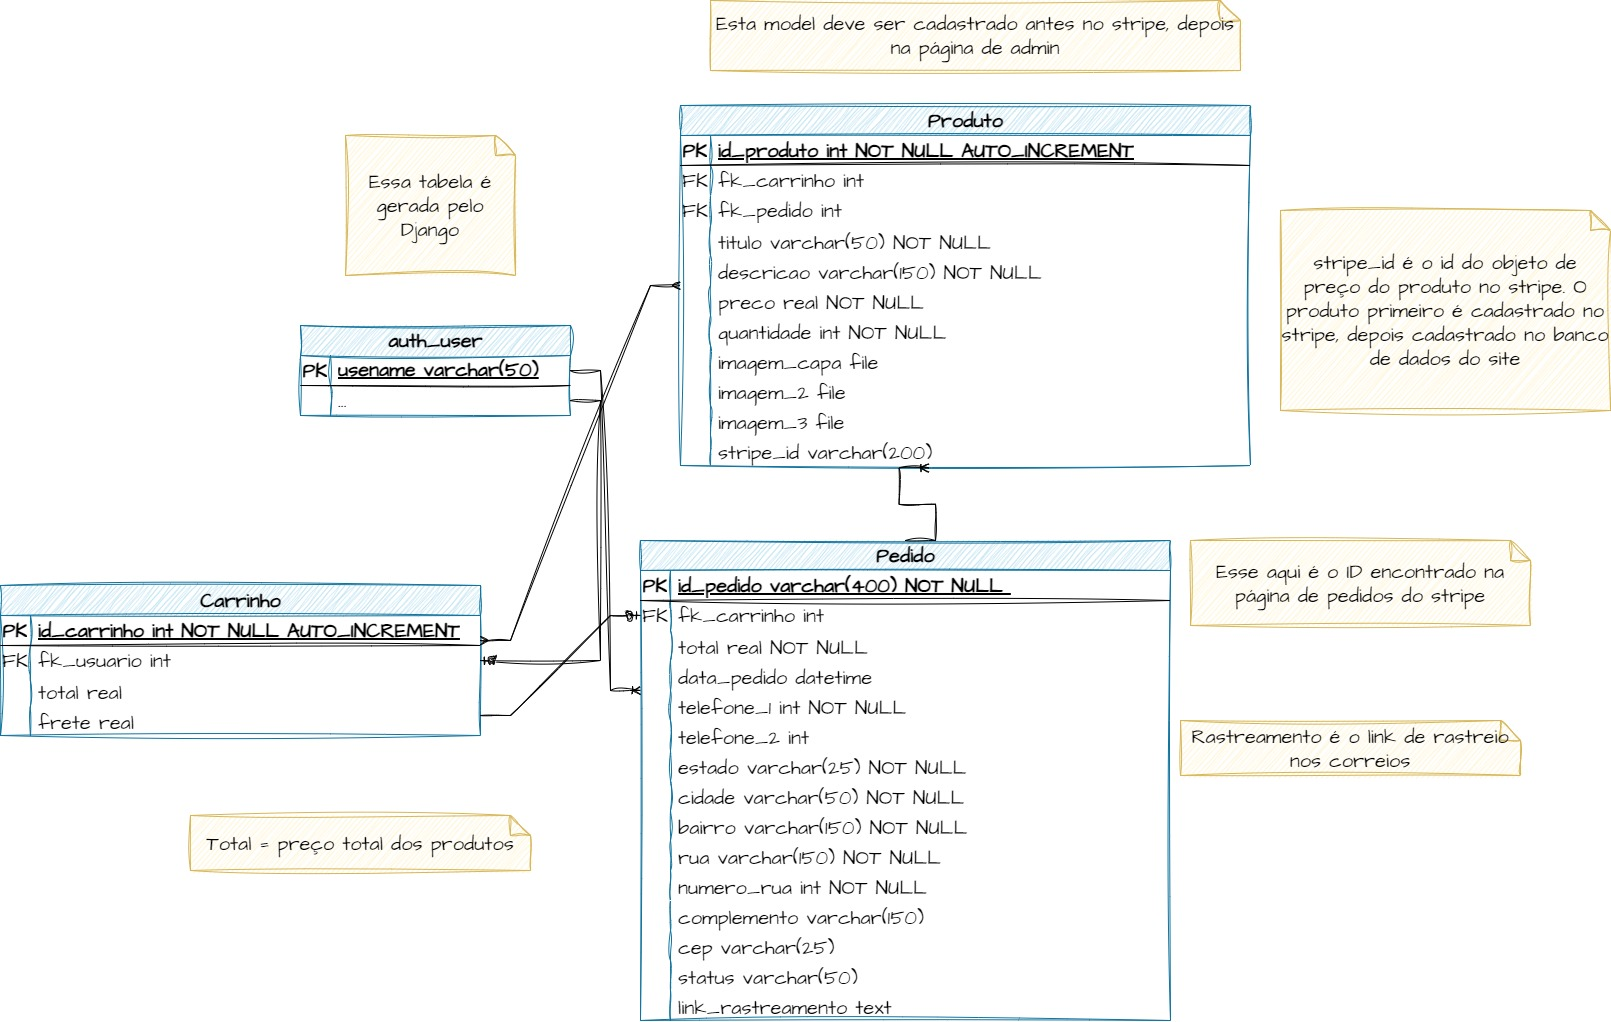
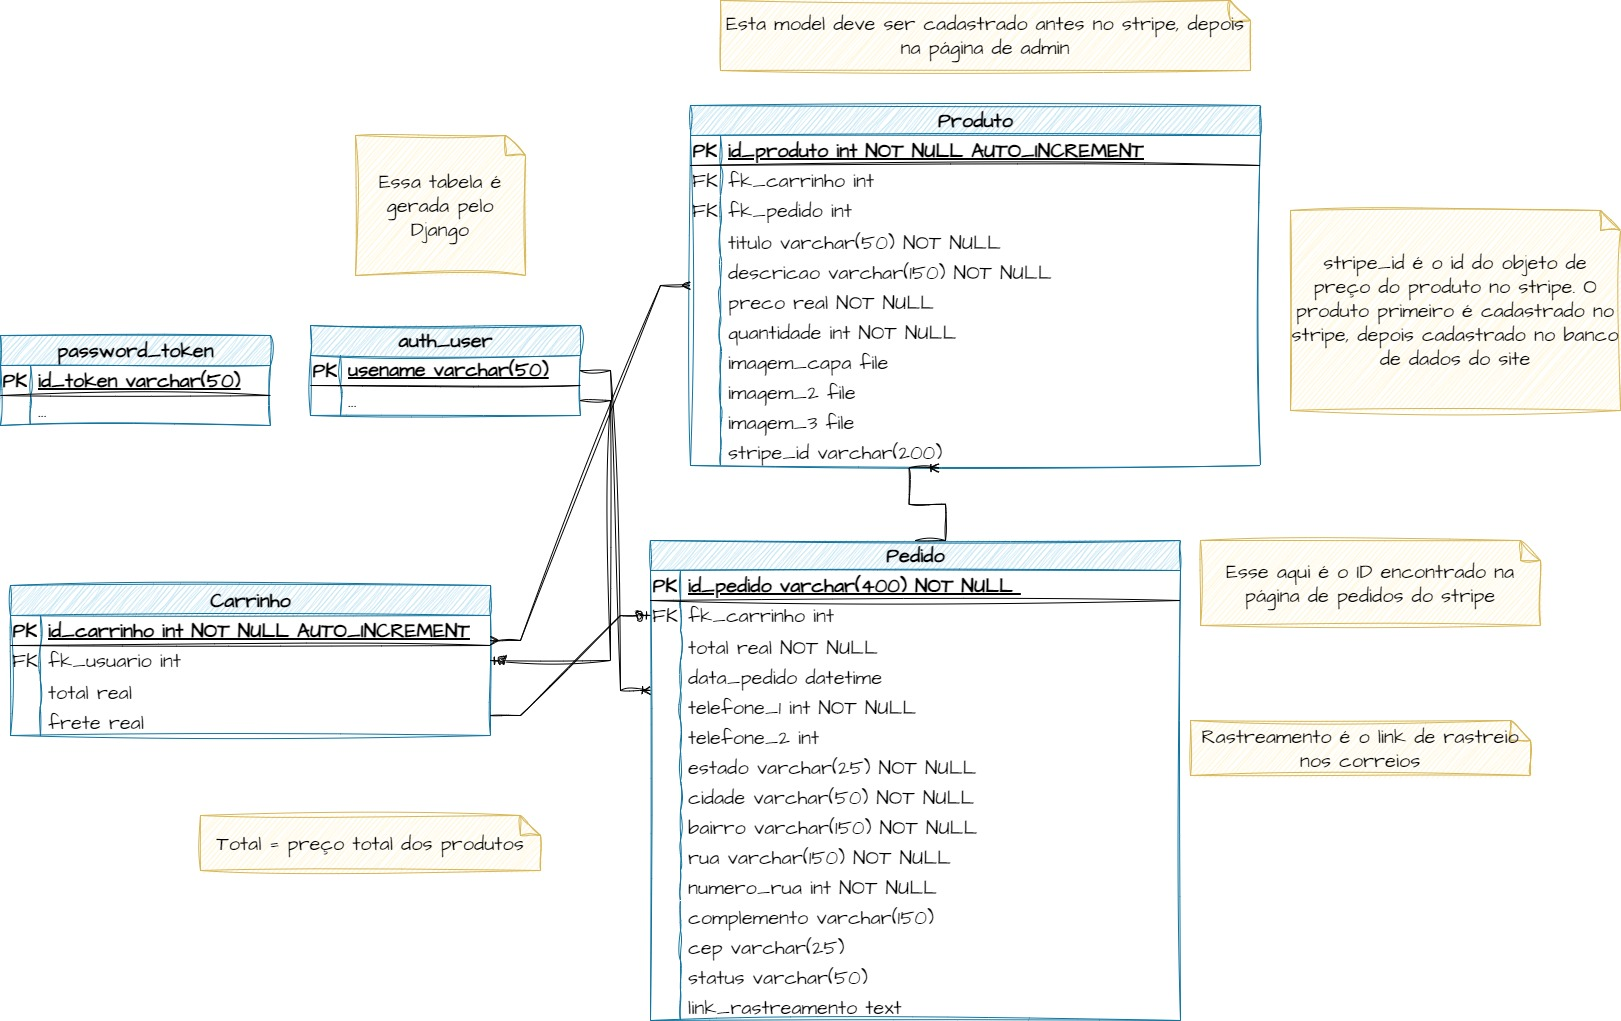
Implementando esqueci minha senha

diff --git a/lojarelogios/lojarelogiosapp/templates/lojarelogiosapp/user/register.html b/lojarelogios/lojarelogiosapp/templates/lojarelogiosapp/user/register.html
@@ -53,7 +53,7 @@
                         id="confirma-senha" aria-describedby="confirma-senha">
                 </div>
                 <span id="erro-msg-span" class="text-danger text-center"></span>
-                <button type="button" id="sbtn" class="my-5 btn-style1 d-grid mx-auto">Registrar-se</button>
+                <button disabled type="button" id="sbtn" class="my-5 btn-style1 d-grid mx-auto">Registrar-se</button>
             </div>
         </div>
     </form>
@@ -95,8 +95,8 @@
 
     function checkDouble(event) {
         if (testeCondicional()) {
-            // Gambiarra para prevenir o submit em caso de erro
             document.getElementById('register-form').submit()
+            sBtn.disabled = false
         } else {
             document.getElementById('erro-msg-span').innerHTML = erro_msg
         }

diff --git a/lojarelogios/lojarelogiosapp/templates/lojarelogiosapp/user/recover-pass.html b/lojarelogios/lojarelogiosapp/templates/lojarelogiosapp/user/recover-pass.html
@@ -1,0 +1,18 @@
+{% extends 'base.html' %}
+<title>{% block title %}Loja de Relógios - Esqueci minha senha{% endblock title %}</title>
+{% block content %}
+<br class="my-5" />
+<br class="my-5" />
+<br class="my-5" />
+<br class="my-5" />
+<br class="my-5" />
+<br class="my-5" />
+<br class="my-5" />
+<br class="my-5" />
+<br class="my-5" />
+<div class="text-center my-5">
+    <h1 class="text-success">Um email foi enviado para {{ user_mail }}</h1>
+    <h2>Favor verificar!</h2>
+</div>
+{% endblock content %}
+{% include 'navbar.html' %}

diff --git a/lojarelogios/lojarelogiosapp/views.py b/lojarelogios/lojarelogiosapp/views.py
@@ -15,6 +15,7 @@ from django.conf import settings
 from django.http import JsonResponse
 from django.core.mail import send_mail
 from django.template import loader
+from uuid import uuid4
 
 # Create your views here.
 def check_available(request, produtos):
@@ -361,3 +362,15 @@ def cancel_view(request):
      #pedido.delete()
      
      return render(request, 'lojarelogiosapp/payment/cancel.html')
+
+# Método que envia email para troca de senha
+def recover_password(request):
+     user = request.user
+     # Vou intanciar um token novo que vai ser um slug
+     # Depois eu verifico se existe o token e se sim, eu dou acesso à url de troca (switch)
+     rand_token = uuid4()
+     return render(request, 'lojarelogiosapp/recover-pass.html', {'user_mail': user.email})
+
+# Método que troca senha
+def switch_password(request):
+     pass

diff --git a/lojarelogios/lojarelogiosapp/models.py b/lojarelogios/lojarelogiosapp/models.py
@@ -62,3 +62,9 @@ class Produto(models.Model):
 
     def __str__(self):
         return self.titulo
+    
+class password_token(models.Model):
+    id_token = models.SlugField(max_length=50, primary_key=True)
+
+    def __str__(self):
+        return self.id_token
